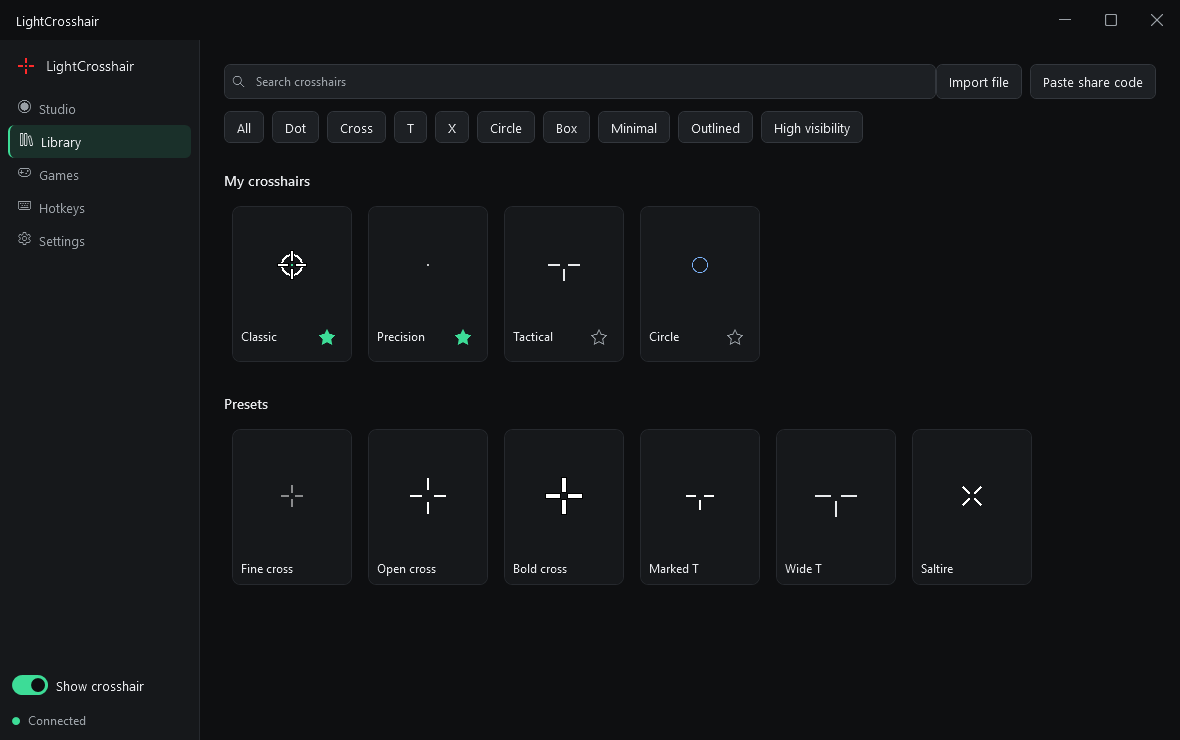
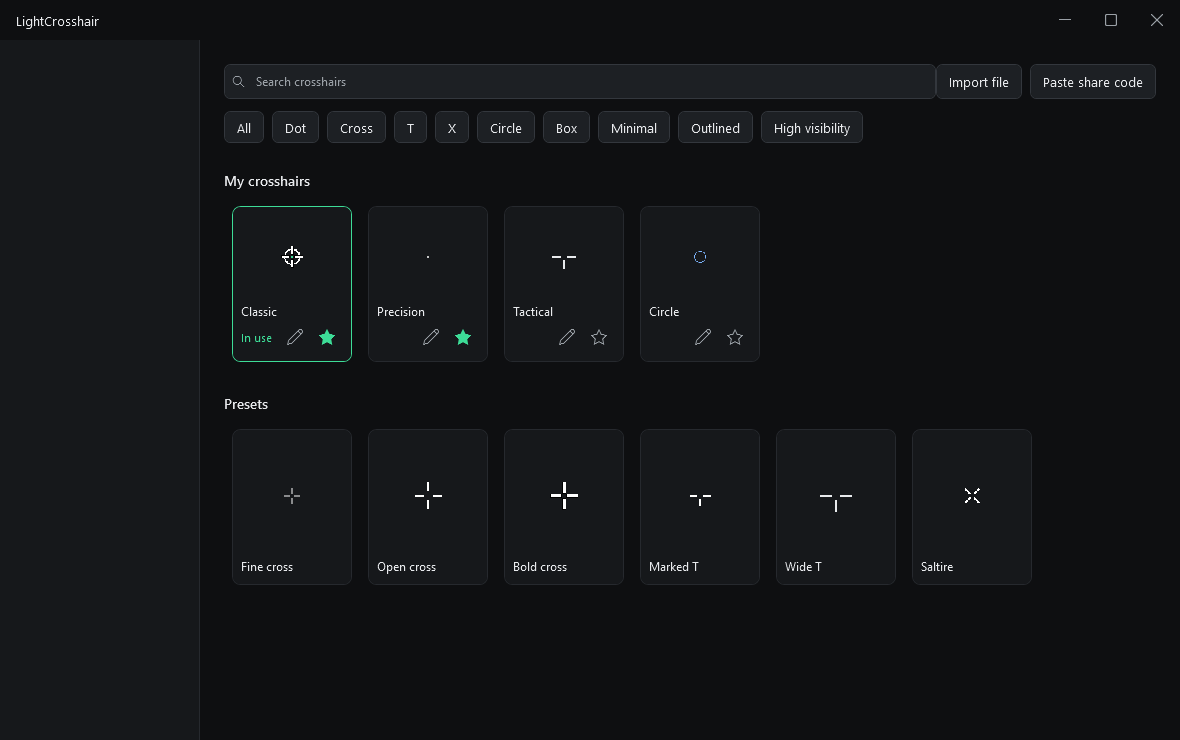
Refresh the readme shots and record review 4.
Library, hotkeys, games, and settings changed on screen, and the handoff keeps the measured open times.

diff --git a/docs/v2/HANDOFF-ui.md b/docs/v2/HANDOFF-ui.md
@@ -113,6 +113,18 @@ UI cold start is under the 1.5 s budget. The private-memory number is the WPF pr
 - U-18: The sidebar mark uses the hard-edged icon frame closest to 20 px at the current DPI (20, 24, 32, or 40) and draws it one bitmap pixel per device pixel with nearest-neighbor. `SidebarMarkUsesTheDpiFrameAndHardEdges` checks 100% and 150%: every pixel is transparent or the icon red.
 - Readme shots: `docs/images/ui-studio.png`, `ui-library.png`, `ui-games.png`, `ui-hotkeys.png`, and `ui-settings.png` are 1180×740 captures from `--screenshots` against the separate fake seed. Studio shows the outlined cross, green dot, and ring at Fit; Library shows four crosshairs with two favorites above the presets; Games has Counter-Strike 2 selected and VALORANT, with no suggestion; Hotkeys adds Hold to show on Mouse 5; Settings shows the top of the page in English. Each file is under 50 KB. Release `LightCrosshair.sln`: 0 warnings, 230 Core tests and 28 UI tests passed.
 
+## Review 4
+
+- Presets: a click opens "Use this crosshair" on the card, with the name selected. Use saves a new id and `SourcePresetId`, then makes it the default, or that game's crosshair when the pick starts on Games. A preset that was already saved offers the existing copy or another one. Enter confirms and Esc cancels. Right-click is Use… and Edit a copy. `UsingAPresetSavesItAndASecondUseKeepsTheCopy` and `APresetChosenForAGameDoesNotChangeTheDefault`.
+- Saved cards: a click makes that crosshair active immediately. The active card has an accent border and "In use". Edit and a double-click open Studio. The menu is Use, Edit, Duplicate, Favorite, Export, Delete. Enter uses it, F2 renames it, Delete asks first. `ClickingASavedCrosshairMakesItActiveAndRenameKeepsTheDesign`. Picking a saved crosshair on a game profile saves that profile. `ChoosingASavedCrosshairForAGameSavesThatProfile`.
+- Mouse bindings: the capture field ignores the click that starts capture, then takes Middle, Right, Mouse4, Mouse5, WheelUp, and WheelDown. Each row also has a Mouse button menu; the wheel stays Toggle and other modifiers stay. The hint under the title is "Click a shortcut, then press a key or a mouse button" in all six languages. `CaptureIgnoresTheOpeningClickThenTakesMouseButtonsAndTheWheel` and `TheMouseMenuKeepsModifiersAndForcesTheWheelToToggle`. The published Hotkeys page shows Mouse 5, Hold to show, and the menu. A physical Mouse4 press was not sent.
+- Monitors: every monitor picker shows "{FriendlyName} · Display {n}", with Primary on the primary. The settings shot shows "DELL S2721DGF · Display 1 · Primary". `MonitorLabelsAndColorErrorsUsePlainWords`.
+- Display colors: `apply_failed`, `restore_failed`, and `unsupported` are a plain sentence on the game profile, in all six languages. Same test.
+- Open: the window is shown before `StartAsync`, so the first frame is not waiting on the snapshot, presets, or thumbnails. Closing hides it, ends a live preview, drops the thumbnail cache, trims the working set with `SetProcessWorkingSetSize(-1,-1)`, and stays connected. It exits after 5 minutes, on `quit`, or on Exit. Focus shows it again. Priority is below normal while parked or while a game is foreground, and normal otherwise. `ClosingTheMainWindowParksAndExitsAfterTheTimer`, `ParkLowersPriorityUntilTheWindowIsActiveWithNoGame`.
+- Timing, published win-x64, fake core, `LIGHTCROSSHAIR_TIMING=1`, one warmup discarded. Cold is `OnStartup` to the first `ContentRendered`. Parked open is the show after a close to the next render. Parked memory is the working set just after the trim. Runs: cold 531 / 562 / 578 ms, parked open 16 / 16 / 16 ms, parked working set 4.77 / 4.81 / 4.88 MB. Parked open is under 50 ms. Cold is over 300 ms: about 550 ms is WPF creating and laying out the window before that first frame. Process start to the same frame was 717 / 751 / 757 ms.
+- Placement: the first open is 1180×740 centered on the monitor under the mouse, smaller if the work area is smaller, and never maximized. Later opens restore the normal bounds, clamp them onto a visible monitor, and maximize only if the window was left maximized on a monitor. `FirstOpenCentersOnTheMonitorUnderTheMouse`, `SavedBoundsAreClampedAndMaximizedOnlyOnAVisibleMonitor`.
+- Readme shots were recaptured at 1180×740. Library shows the accent "In use" card, Hotkeys shows the mouse menu and the new hint, Games shows "Use a preset", Settings shows the monitor model. Each file is under 50 KB. The bottom row of content sits 24 px or more inside the frame. Release `LightCrosshair.sln`: 0 warnings, 230 Core tests and 40 UI tests passed.
+
 ## Contract change requests
 
 None.
